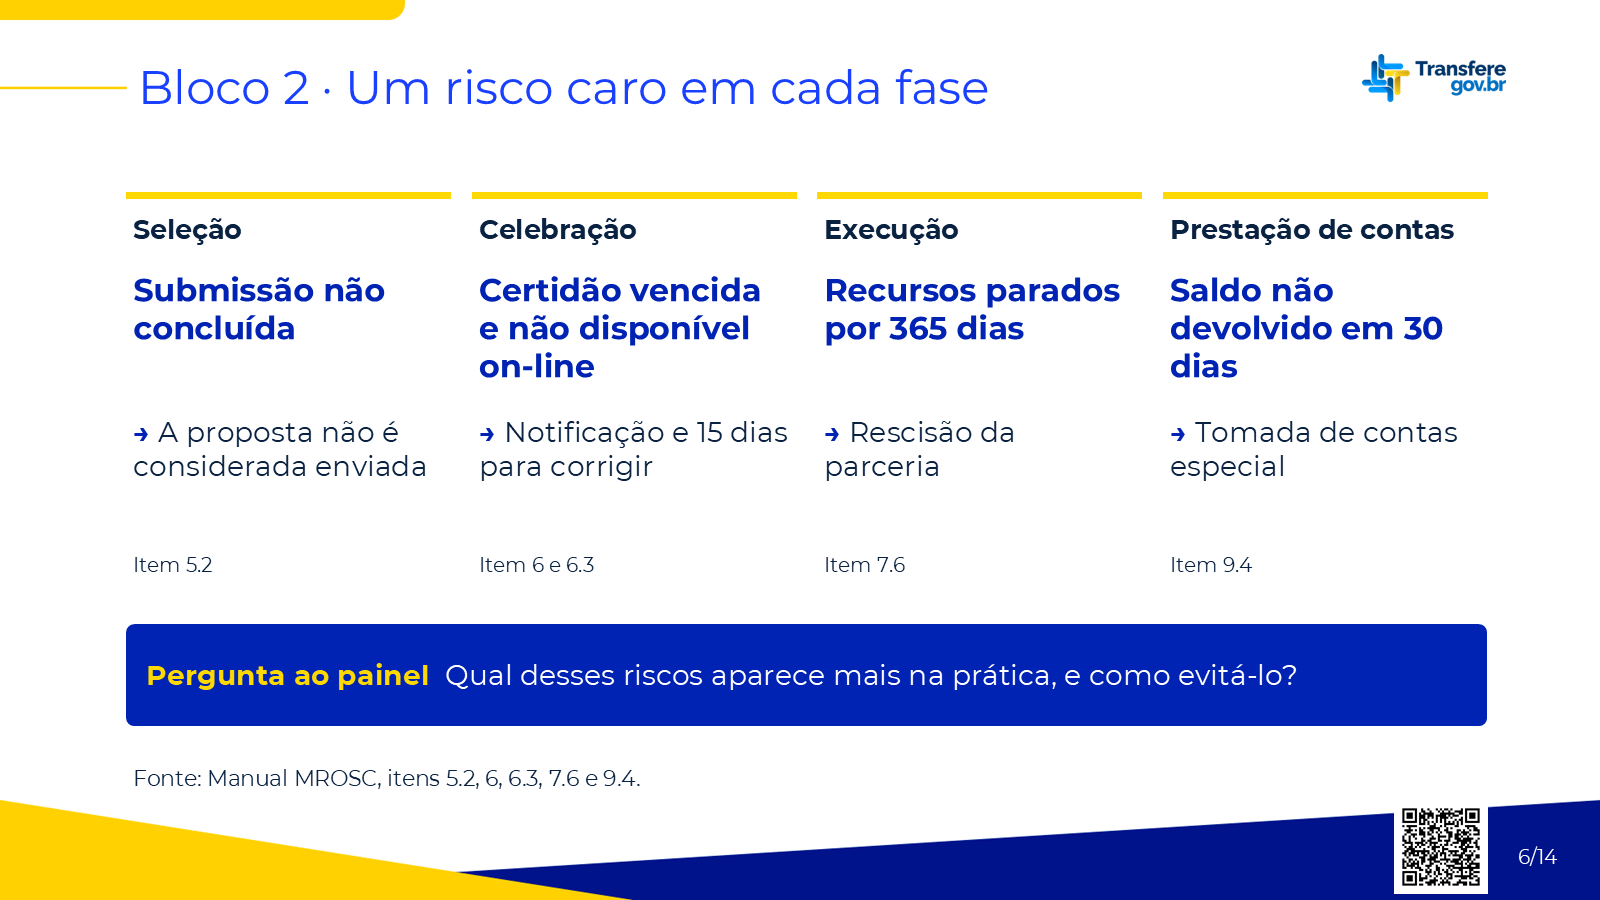
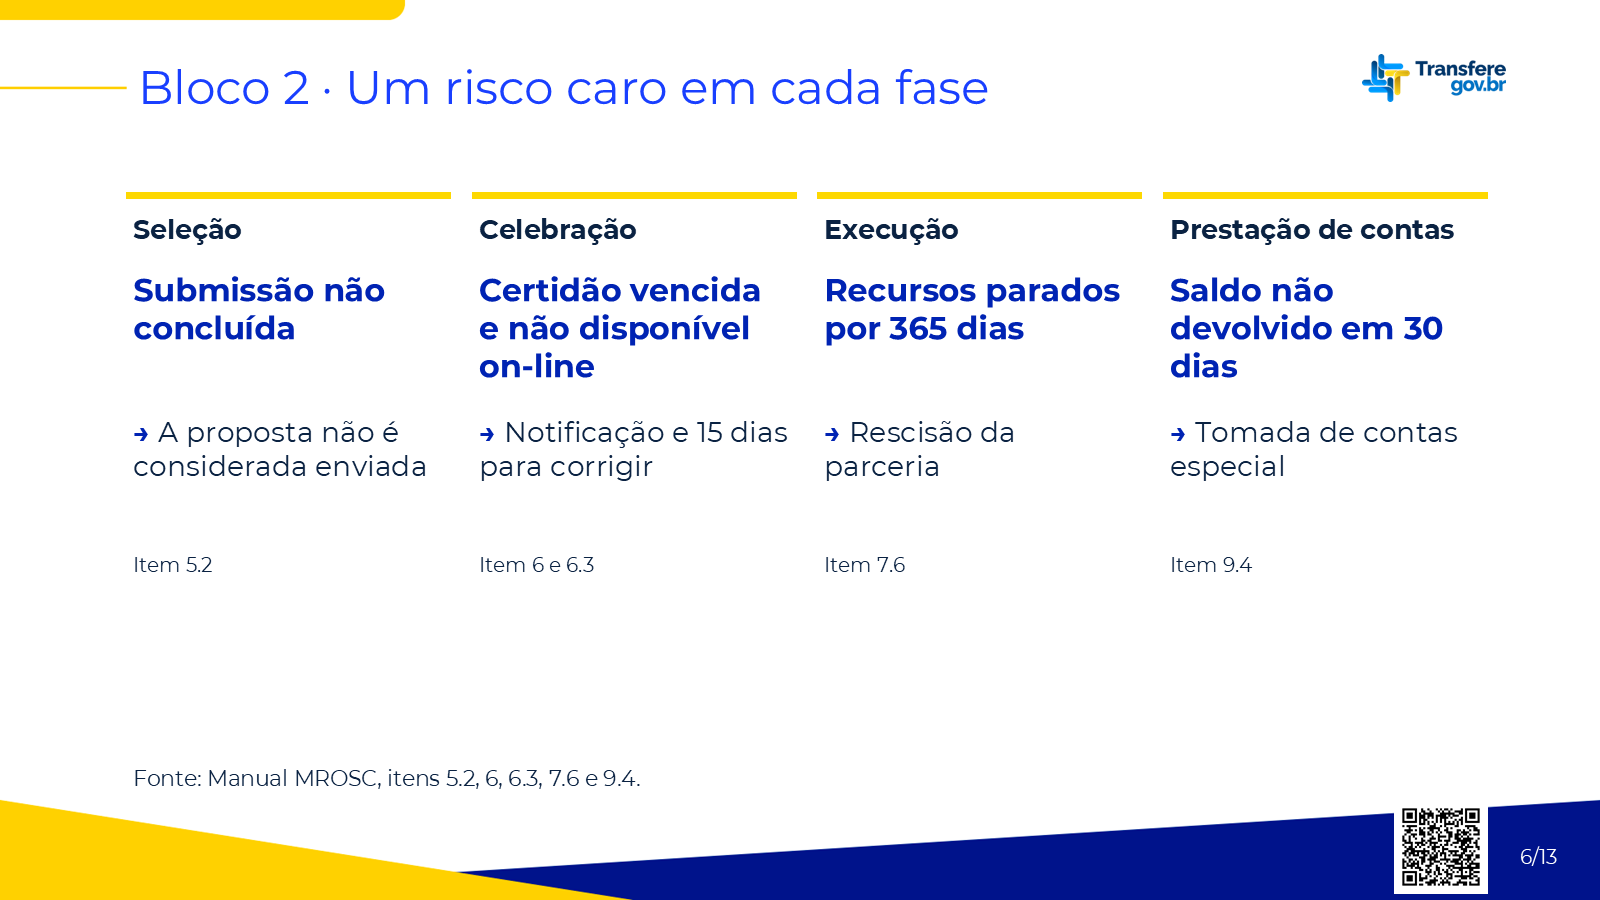
Usa a versão pública do painel, sem as perguntas ao painel
Painel renderizado de apresentacoes/publico/painel-desafios.pptx (fonte
fad0478): 13 slides, sem a tarja "Pergunta ao painel" e sem o slide de
votação; slide 14 antigo removido. Pedido do usuário.

Changed region(s): [[0.0625, 0.6844, 0.9375, 0.8089], [0.9375, 0.9333, 0.9688, 0.9644]]

diff --git a/docs/slides-painel.html b/docs/slides-painel.html
@@ -30,12 +30,12 @@
   <p><a href="palestra-2-desafios.html">Voltar ao painel</a></p>
   <h1>Slides do painel: Transferegov.br e as OSCs: Desafios, Exigências e Estratégias para Acesso a Recursos</h1>
   <p class="aviso">Slides disponíveis só para acompanhar a apresentação. O texto de cada slide está em "Texto do slide", logo abaixo da imagem. Use os botões ou as setas do teclado para avançar e voltar.</p>
-  <section class="apresentacao" aria-label="Slides do painel" data-total="14">
+  <section class="apresentacao" aria-label="Slides do painel" data-total="13">
     <ol class="lista-slides">
       <li class="slide" id="slide-1">
         <figure>
-          <img src="slides/painel/slide-01.png" width="1600" height="900" loading="eager" alt="Slide 1 de 14: Painel: Transferegov.br e as OSCs: Desafios, Exigências e Estratégias para Acesso a Recursos">
-          <figcaption class="contador-slide">Slide 1 de 14</figcaption>
+          <img src="slides/painel/slide-01.png" width="1600" height="900" loading="eager" alt="Slide 1 de 13: Painel: Transferegov.br e as OSCs: Desafios, Exigências e Estratégias para Acesso a Recursos">
+          <figcaption class="contador-slide">Slide 1 de 13</figcaption>
         </figure>
         <details class="texto-slide" open>
           <summary>Texto e links do slide 1</summary>
@@ -48,8 +48,8 @@
       </li>
       <li class="slide" id="slide-2">
         <figure>
-          <img src="slides/painel/slide-02.png" width="1600" height="900" loading="lazy" alt="Slide 2 de 14: Quatro blocos para o debate">
-          <figcaption class="contador-slide">Slide 2 de 14</figcaption>
+          <img src="slides/painel/slide-02.png" width="1600" height="900" loading="lazy" alt="Slide 2 de 13: Quatro blocos para o debate">
+          <figcaption class="contador-slide">Slide 2 de 13</figcaption>
         </figure>
         <details class="texto-slide">
           <summary>Texto do slide 2</summary>
@@ -64,8 +64,8 @@
       </li>
       <li class="slide" id="slide-3">
         <figure>
-          <img src="slides/painel/slide-03.png" width="1600" height="900" loading="lazy" alt="Slide 3 de 14: Um regime próprio para as OSCs">
-          <figcaption class="contador-slide">Slide 3 de 14</figcaption>
+          <img src="slides/painel/slide-03.png" width="1600" height="900" loading="lazy" alt="Slide 3 de 13: Um regime próprio para as OSCs">
+          <figcaption class="contador-slide">Slide 3 de 13</figcaption>
         </figure>
         <details class="texto-slide">
           <summary>Texto do slide 3</summary>
@@ -78,8 +78,8 @@
       </li>
       <li class="slide" id="slide-4">
         <figure>
-          <img src="slides/painel/slide-04.png" width="1600" height="900" loading="lazy" alt="Slide 4 de 14: O ecossistema Transferegov.br">
-          <figcaption class="contador-slide">Slide 4 de 14</figcaption>
+          <img src="slides/painel/slide-04.png" width="1600" height="900" loading="lazy" alt="Slide 4 de 13: O ecossistema Transferegov.br">
+          <figcaption class="contador-slide">Slide 4 de 13</figcaption>
         </figure>
         <details class="texto-slide">
           <summary>Texto do slide 4</summary>
@@ -96,8 +96,8 @@
       </li>
       <li class="slide" id="slide-5">
         <figure>
-          <img src="slides/painel/slide-05.png" width="1600" height="900" loading="lazy" alt="Slide 5 de 14: Bloco 1 · Exigências para participar">
-          <figcaption class="contador-slide">Slide 5 de 14</figcaption>
+          <img src="slides/painel/slide-05.png" width="1600" height="900" loading="lazy" alt="Slide 5 de 13: Bloco 1 · Exigências para participar">
+          <figcaption class="contador-slide">Slide 5 de 13</figcaption>
         </figure>
         <details class="texto-slide">
           <summary>Texto do slide 5</summary>
@@ -110,13 +110,12 @@
 <p>15 dias</p>
 <p>da convocação para comprovar os requisitos</p>
 <p>Não pode ser exigido: CEBAS, OS, OSCIP ou título de utilidade pública.</p>
-<p>Pergunta ao painel  O que mais impede uma OSC de comprovar os requisitos em 15 dias?</p>
         </details>
       </li>
       <li class="slide" id="slide-6">
         <figure>
-          <img src="slides/painel/slide-06.png" width="1600" height="900" loading="lazy" alt="Slide 6 de 14: Bloco 2 · Um risco caro em cada fase">
-          <figcaption class="contador-slide">Slide 6 de 14</figcaption>
+          <img src="slides/painel/slide-06.png" width="1600" height="900" loading="lazy" alt="Slide 6 de 13: Bloco 2 · Um risco caro em cada fase">
+          <figcaption class="contador-slide">Slide 6 de 13</figcaption>
         </figure>
         <details class="texto-slide">
           <summary>Texto do slide 6</summary>
@@ -138,13 +137,12 @@
 <p>Saldo não devolvido em 30 dias</p>
 <p>→ Tomada de contas especial</p>
 <p>Item 9.4</p>
-<p>Pergunta ao painel  Qual desses riscos aparece mais na prática, e como evitá-lo?</p>
         </details>
       </li>
       <li class="slide" id="slide-7">
         <figure>
-          <img src="slides/painel/slide-07.png" width="1600" height="900" loading="lazy" alt="Slide 7 de 14: Bloco 3 · Repasse não é pagamento">
-          <figcaption class="contador-slide">Slide 7 de 14</figcaption>
+          <img src="slides/painel/slide-07.png" width="1600" height="900" loading="lazy" alt="Slide 7 de 13: Bloco 3 · Repasse não é pagamento">
+          <figcaption class="contador-slide">Slide 7 de 13</figcaption>
         </figure>
         <details class="texto-slide">
           <summary>Texto do slide 7</summary>
@@ -161,8 +159,8 @@
       </li>
       <li class="slide" id="slide-8">
         <figure>
-          <img src="slides/painel/slide-08.png" width="1600" height="900" loading="lazy" alt="Slide 8 de 14: Monitoramento é preventivo">
-          <figcaption class="contador-slide">Slide 8 de 14</figcaption>
+          <img src="slides/painel/slide-08.png" width="1600" height="900" loading="lazy" alt="Slide 8 de 13: Monitoramento é preventivo">
+          <figcaption class="contador-slide">Slide 8 de 13</figcaption>
         </figure>
         <details class="texto-slide">
           <summary>Texto do slide 8</summary>
@@ -175,8 +173,8 @@
       </li>
       <li class="slide" id="slide-9">
         <figure>
-          <img src="slides/painel/slide-09.png" width="1600" height="900" loading="lazy" alt="Slide 9 de 14: Contas do objeto: metas e evidências">
-          <figcaption class="contador-slide">Slide 9 de 14</figcaption>
+          <img src="slides/painel/slide-09.png" width="1600" height="900" loading="lazy" alt="Slide 9 de 13: Contas do objeto: metas e evidências">
+          <figcaption class="contador-slide">Slide 9 de 13</figcaption>
         </figure>
         <details class="texto-slide">
           <summary>Texto do slide 9</summary>
@@ -189,13 +187,12 @@
 <p>150 dias</p>
 <p>para o parecer conclusivo da administração, prorrogáveis</p>
 <p>Sem análise em 150 dias, a OSC não fica impedida de celebrar novas parcerias.</p>
-<p>Pergunta ao painel  Que evidências a OSC deve reunir desde o primeiro mês de execução?</p>
         </details>
       </li>
       <li class="slide" id="slide-10">
         <figure>
-          <img src="slides/painel/slide-10.png" width="1600" height="900" loading="lazy" alt="Slide 10 de 14: Transparência e sanções">
-          <figcaption class="contador-slide">Slide 10 de 14</figcaption>
+          <img src="slides/painel/slide-10.png" width="1600" height="900" loading="lazy" alt="Slide 10 de 13: Transparência e sanções">
+          <figcaption class="contador-slide">Slide 10 de 13</figcaption>
         </figure>
         <details class="texto-slide">
           <summary>Texto do slide 10</summary>
@@ -214,8 +211,8 @@
       </li>
       <li class="slide" id="slide-11">
         <figure>
-          <img src="slides/painel/slide-11.png" width="1600" height="900" loading="lazy" alt="Slide 11 de 14: Bloco 4 · Estratégias para captar">
-          <figcaption class="contador-slide">Slide 11 de 14</figcaption>
+          <img src="slides/painel/slide-11.png" width="1600" height="900" loading="lazy" alt="Slide 11 de 13: Bloco 4 · Estratégias para captar">
+          <figcaption class="contador-slide">Slide 11 de 13</figcaption>
         </figure>
         <details class="texto-slide">
           <summary>Texto do slide 11</summary>
@@ -229,32 +226,15 @@
 <p>6<br>Atuação em rede</p>
 <p>7<br>Proposta escrita para os critérios</p>
 <p>8<br>Modelos oficiais do Anexo I</p>
-<p>Pergunta ao painel  Qual estratégia trouxe mais resultado para as OSCs que vocês acompanham?</p>
         </details>
       </li>
       <li class="slide" id="slide-12">
         <figure>
-          <img src="slides/painel/slide-12.png" width="1600" height="900" loading="lazy" alt="Slide 12 de 14: Vote com a mão levantada">
-          <figcaption class="contador-slide">Slide 12 de 14</figcaption>
+          <img src="slides/painel/slide-12.png" width="1600" height="900" loading="lazy" alt="Slide 12 de 13: Três mensagens para levar">
+          <figcaption class="contador-slide">Slide 12 de 13</figcaption>
         </figure>
         <details class="texto-slide">
           <summary>Texto do slide 12</summary>
-          <p>Vote com a mão levantada</p>
-<p>Fonte: Manual MROSC, item 9.4.</p>
-<p>A análise da prestação de contas passou de 150 dias sem parecer.</p>
-<p>A OSC fica impedida de celebrar novas parcerias?</p>
-<p>A   Sim, até sair o parecer</p>
-<p>B   Não</p>
-<p>C   Só se a parceria tiver mais de 12 meses</p>
-        </details>
-      </li>
-      <li class="slide" id="slide-13">
-        <figure>
-          <img src="slides/painel/slide-13.png" width="1600" height="900" loading="lazy" alt="Slide 13 de 14: Três mensagens para levar">
-          <figcaption class="contador-slide">Slide 13 de 14</figcaption>
-        </figure>
-        <details class="texto-slide">
-          <summary>Texto do slide 13</summary>
           <p>Três mensagens para levar</p>
 <p>Fonte: Síntese das exigências do Manual MROSC (itens 6, 7.1.2, 8 e 9.1) feita para este material, não citação.</p>
 <p>1</p>
@@ -266,13 +246,13 @@
 <p>Para consultar: landing do painel (riscos por fase e checklists) e Manual MROSC 2025.</p>
         </details>
       </li>
-      <li class="slide" id="slide-14">
+      <li class="slide" id="slide-13">
         <figure>
-          <img src="slides/painel/slide-14.png" width="1600" height="900" loading="lazy" alt="Slide 14 de 14: Acessos necessários">
-          <figcaption class="contador-slide">Slide 14 de 14</figcaption>
+          <img src="slides/painel/slide-13.png" width="1600" height="900" loading="lazy" alt="Slide 13 de 13: Acessos necessários">
+          <figcaption class="contador-slide">Slide 13 de 13</figcaption>
         </figure>
         <details class="texto-slide" open>
-          <summary>Texto e links do slide 14</summary>
+          <summary>Texto e links do slide 13</summary>
           <p>Acessos necessários</p>
 <p>Fonte: Portal do Transferegov.br, links conferidos em 17/11/2026. Lista completa na landing, seção Acessos necessários.</p>
 <p>Pede login pela Conta gov.br<br><a href="https://portal.transferegov.sistema.gov.br/portal/home" target="_blank" rel="noopener">Entrada do Transferegov.br<span class="sr-only"> (abre em nova aba)</span><svg class="icone" aria-hidden="true"><use href="#i-externo"/></svg></a><br>Escolha o módulo e clique em Acessar: Gestão de Parcerias ou Transferências Discricionárias e Legais.<br><a href="https://www.gov.br/transferegov/pt-br/capacitacao/treinatransferegov" target="_blank" rel="noopener">Ambiente de Treinamento do Transferegov.br<span class="sr-only"> (abre em nova aba)</span><svg class="icone" aria-hidden="true"><use href="#i-externo"/></svg></a><br>Cópia do portal para praticar sem mexer em dados reais; os módulos pedem login.</p>

diff --git a/testes/test_publico.py b/testes/test_publico.py
@@ -224,6 +224,13 @@ class TestSite(unittest.TestCase):
             self.assertIn("QR code que leva ao site do material para os participantes (o mesmo endereço do link acima).", capa, pagina)
             self.assertNotIn("Mulher com celular", capa, pagina)
 
+    def test_painel_publico_sem_perguntas_ao_painel(self):
+        # Pedido do usuário (18/11/2026): o site usa a versão pública do painel, sem a tarja
+        # "Pergunta ao painel" e sem o slide de votação.
+        texto = (DOCS / "slides-painel.html").read_text(encoding="utf-8")
+        self.assertNotIn("Pergunta ao painel", texto)
+        self.assertNotRegex(texto.lower(), r"vota[çc][ãa]o|levant\w* a mão")
+
     def test_secao_acessos_necessarios(self):
         for pagina in ["index.html", "palestra-1-captacao.html", "palestra-2-desafios.html"]:
             self.assertIn('id="acessos"', (DOCS / pagina).read_text(encoding="utf-8"), pagina)

diff --git a/README.md b/README.md
@@ -16,8 +16,9 @@ Site estático de apoio a uma palestra e um painel sobre parcerias federais entr
    powershell -File scripts/renderizar_slides.ps1 -Arquivo "<fonte>/apresentacoes/palestra-captacao.pptx" -Saida gerado/slides/palestra
    ```
    ```bash
-   powershell -File scripts/renderizar_slides.ps1 -Arquivo "<fonte>/apresentacoes/painel-desafios.pptx" -Saida gerado/slides/painel
+   powershell -File scripts/renderizar_slides.ps1 -Arquivo "<fonte>/apresentacoes/publico/painel-desafios.pptx" -Saida gerado/slides/painel
    ```
+   O painel vem da versão pública (`apresentacoes/publico/painel-desafios.pptx`, sem a tarja "Pergunta ao painel" e sem o slide de votação); a palestra vem de `apresentacoes/palestra-captacao.pptx`.
 2. Montar `docs/` a partir da fonte (somente leitura):
    ```bash
    python -I scripts/montar_publico.py --origem "<pasta da landing de origem>"
